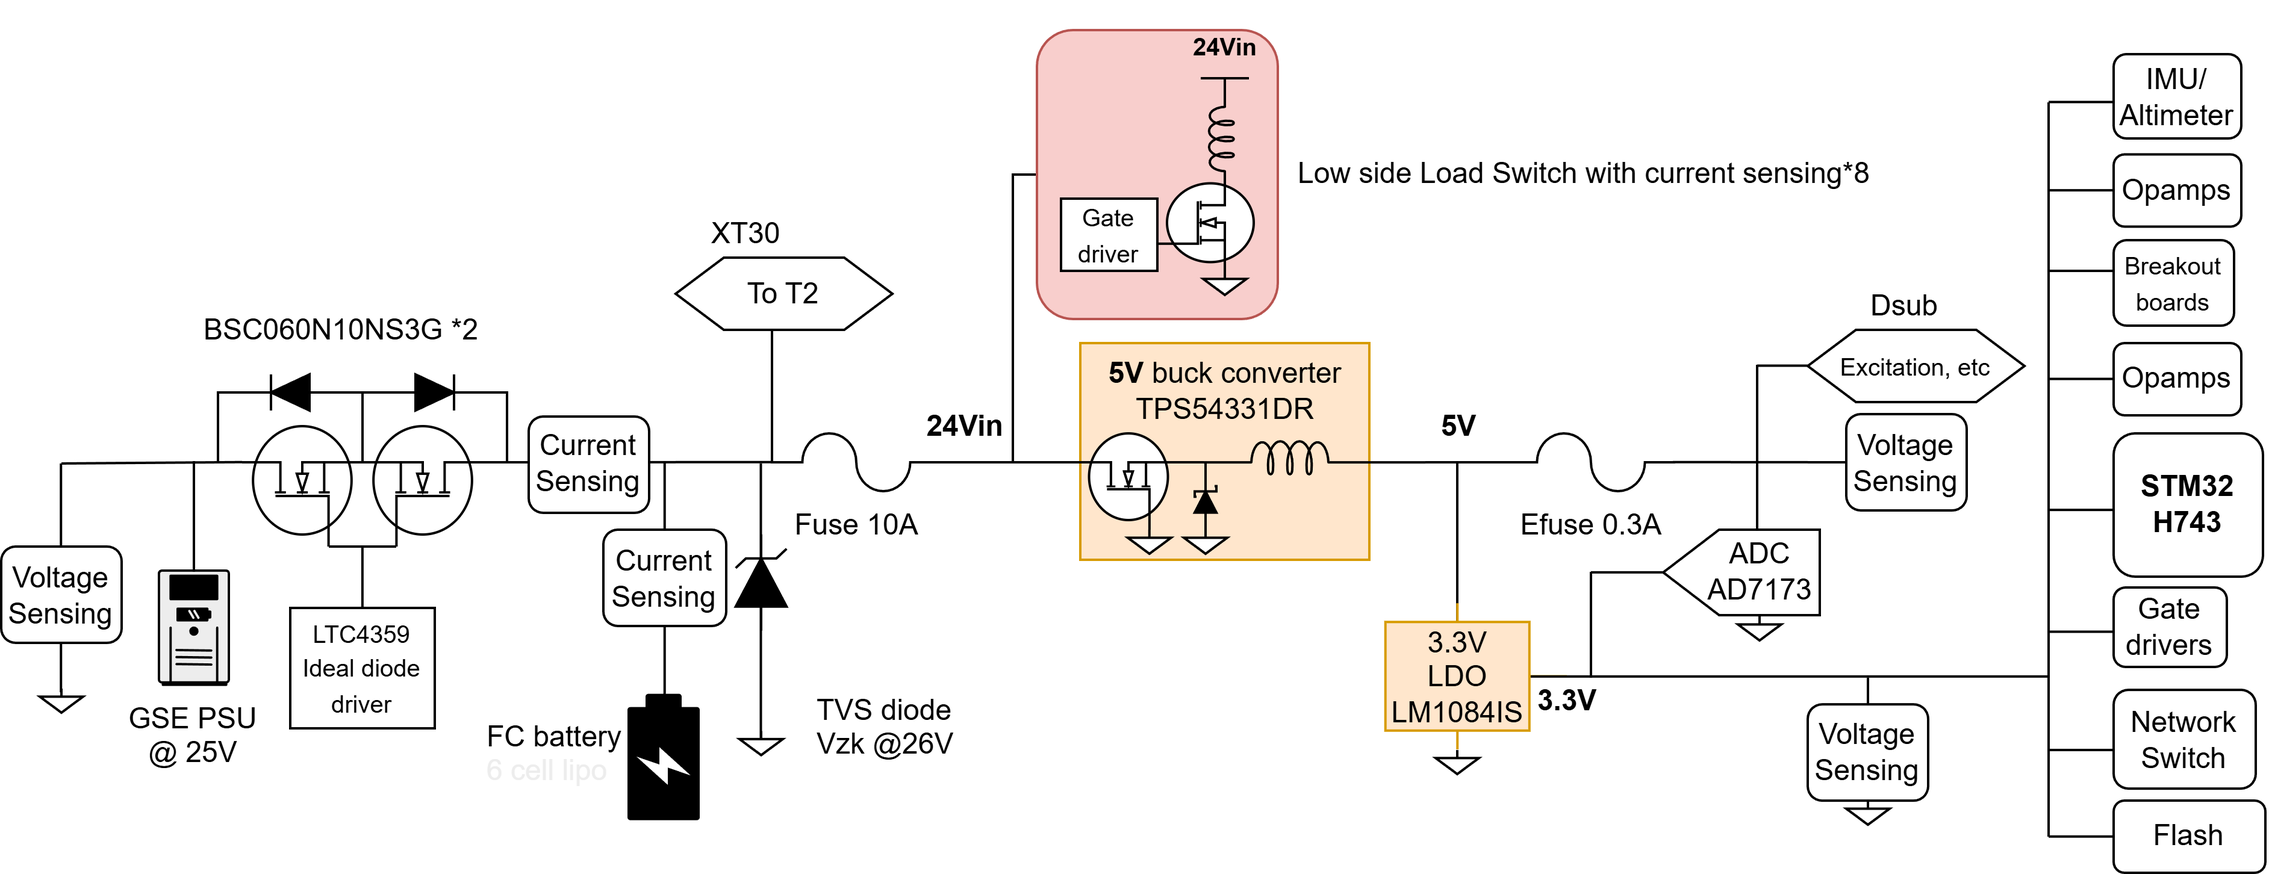
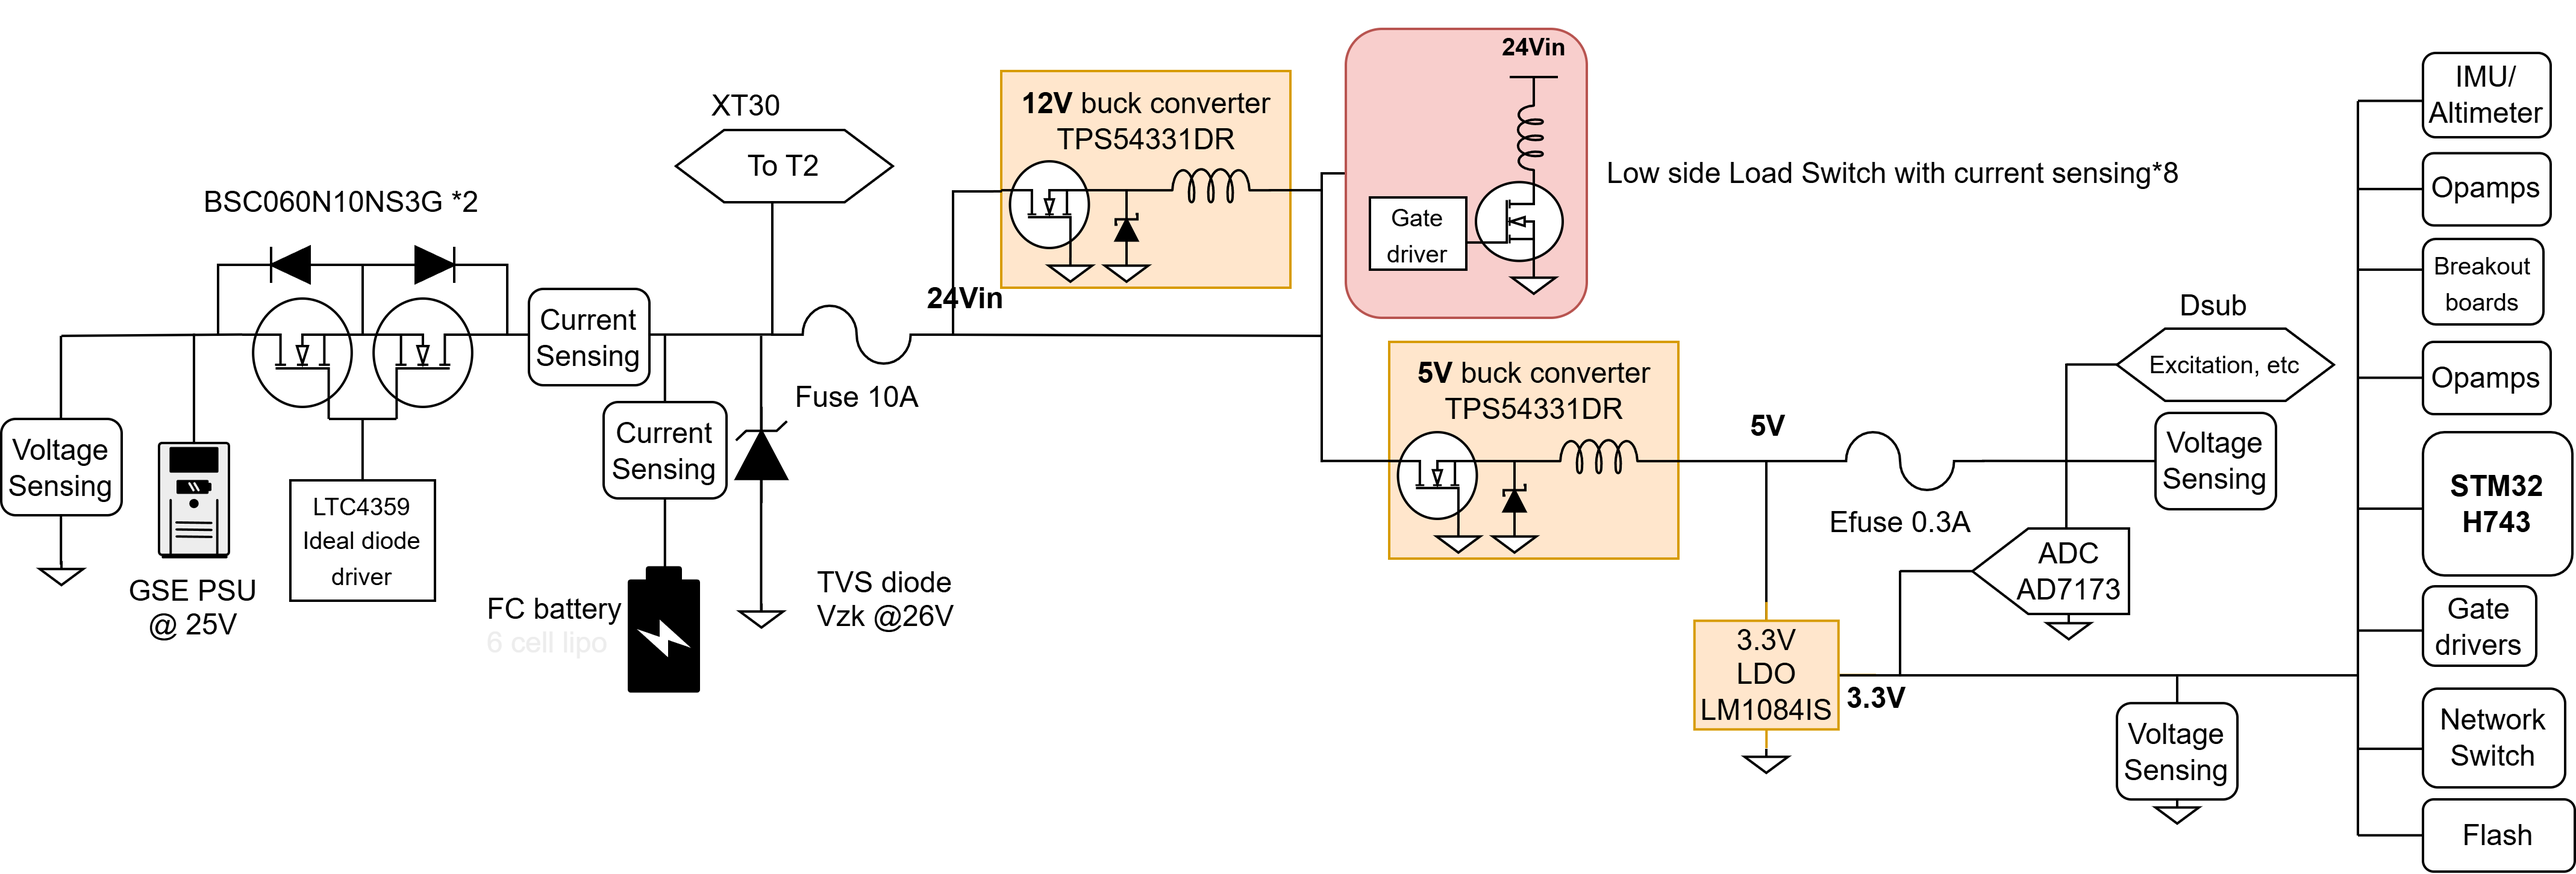
update

diff --git a/index.html b/index.html
@@ -310,7 +310,7 @@
                         <img src="ArgoFC_PCBA.png" alt="PCB Layout" style="width: 100%; height: 100%; object-fit: cover; margin: 0;" onclick="openLightbox(this.src)">
                     </div>
                     <div style="aspect-ratio: 4/3; overflow: hidden; border-radius: 8px;">
-                        <img src="ArgoT1power.png" alt="Power System Design" style="width: 100%; height: 100%; object-fit: cover; margin: 0;" onclick="openLightbox(this.src)">
+                        <img src="ArgoT1power_BMS.png" alt="Power System Design" style="width: 100%; height: 100%; object-fit: cover; margin: 0;" onclick="openLightbox(this.src)">
                     </div>
                     <div style="aspect-ratio: 4/3; overflow: hidden; border-radius: 8px;">
                         <img src="ArgoFC1.png" alt="Argo Flight Computer" style="width: 100%; height: 100%; object-fit: cover; margin: 0;" onclick="openLightbox(this.src)">
